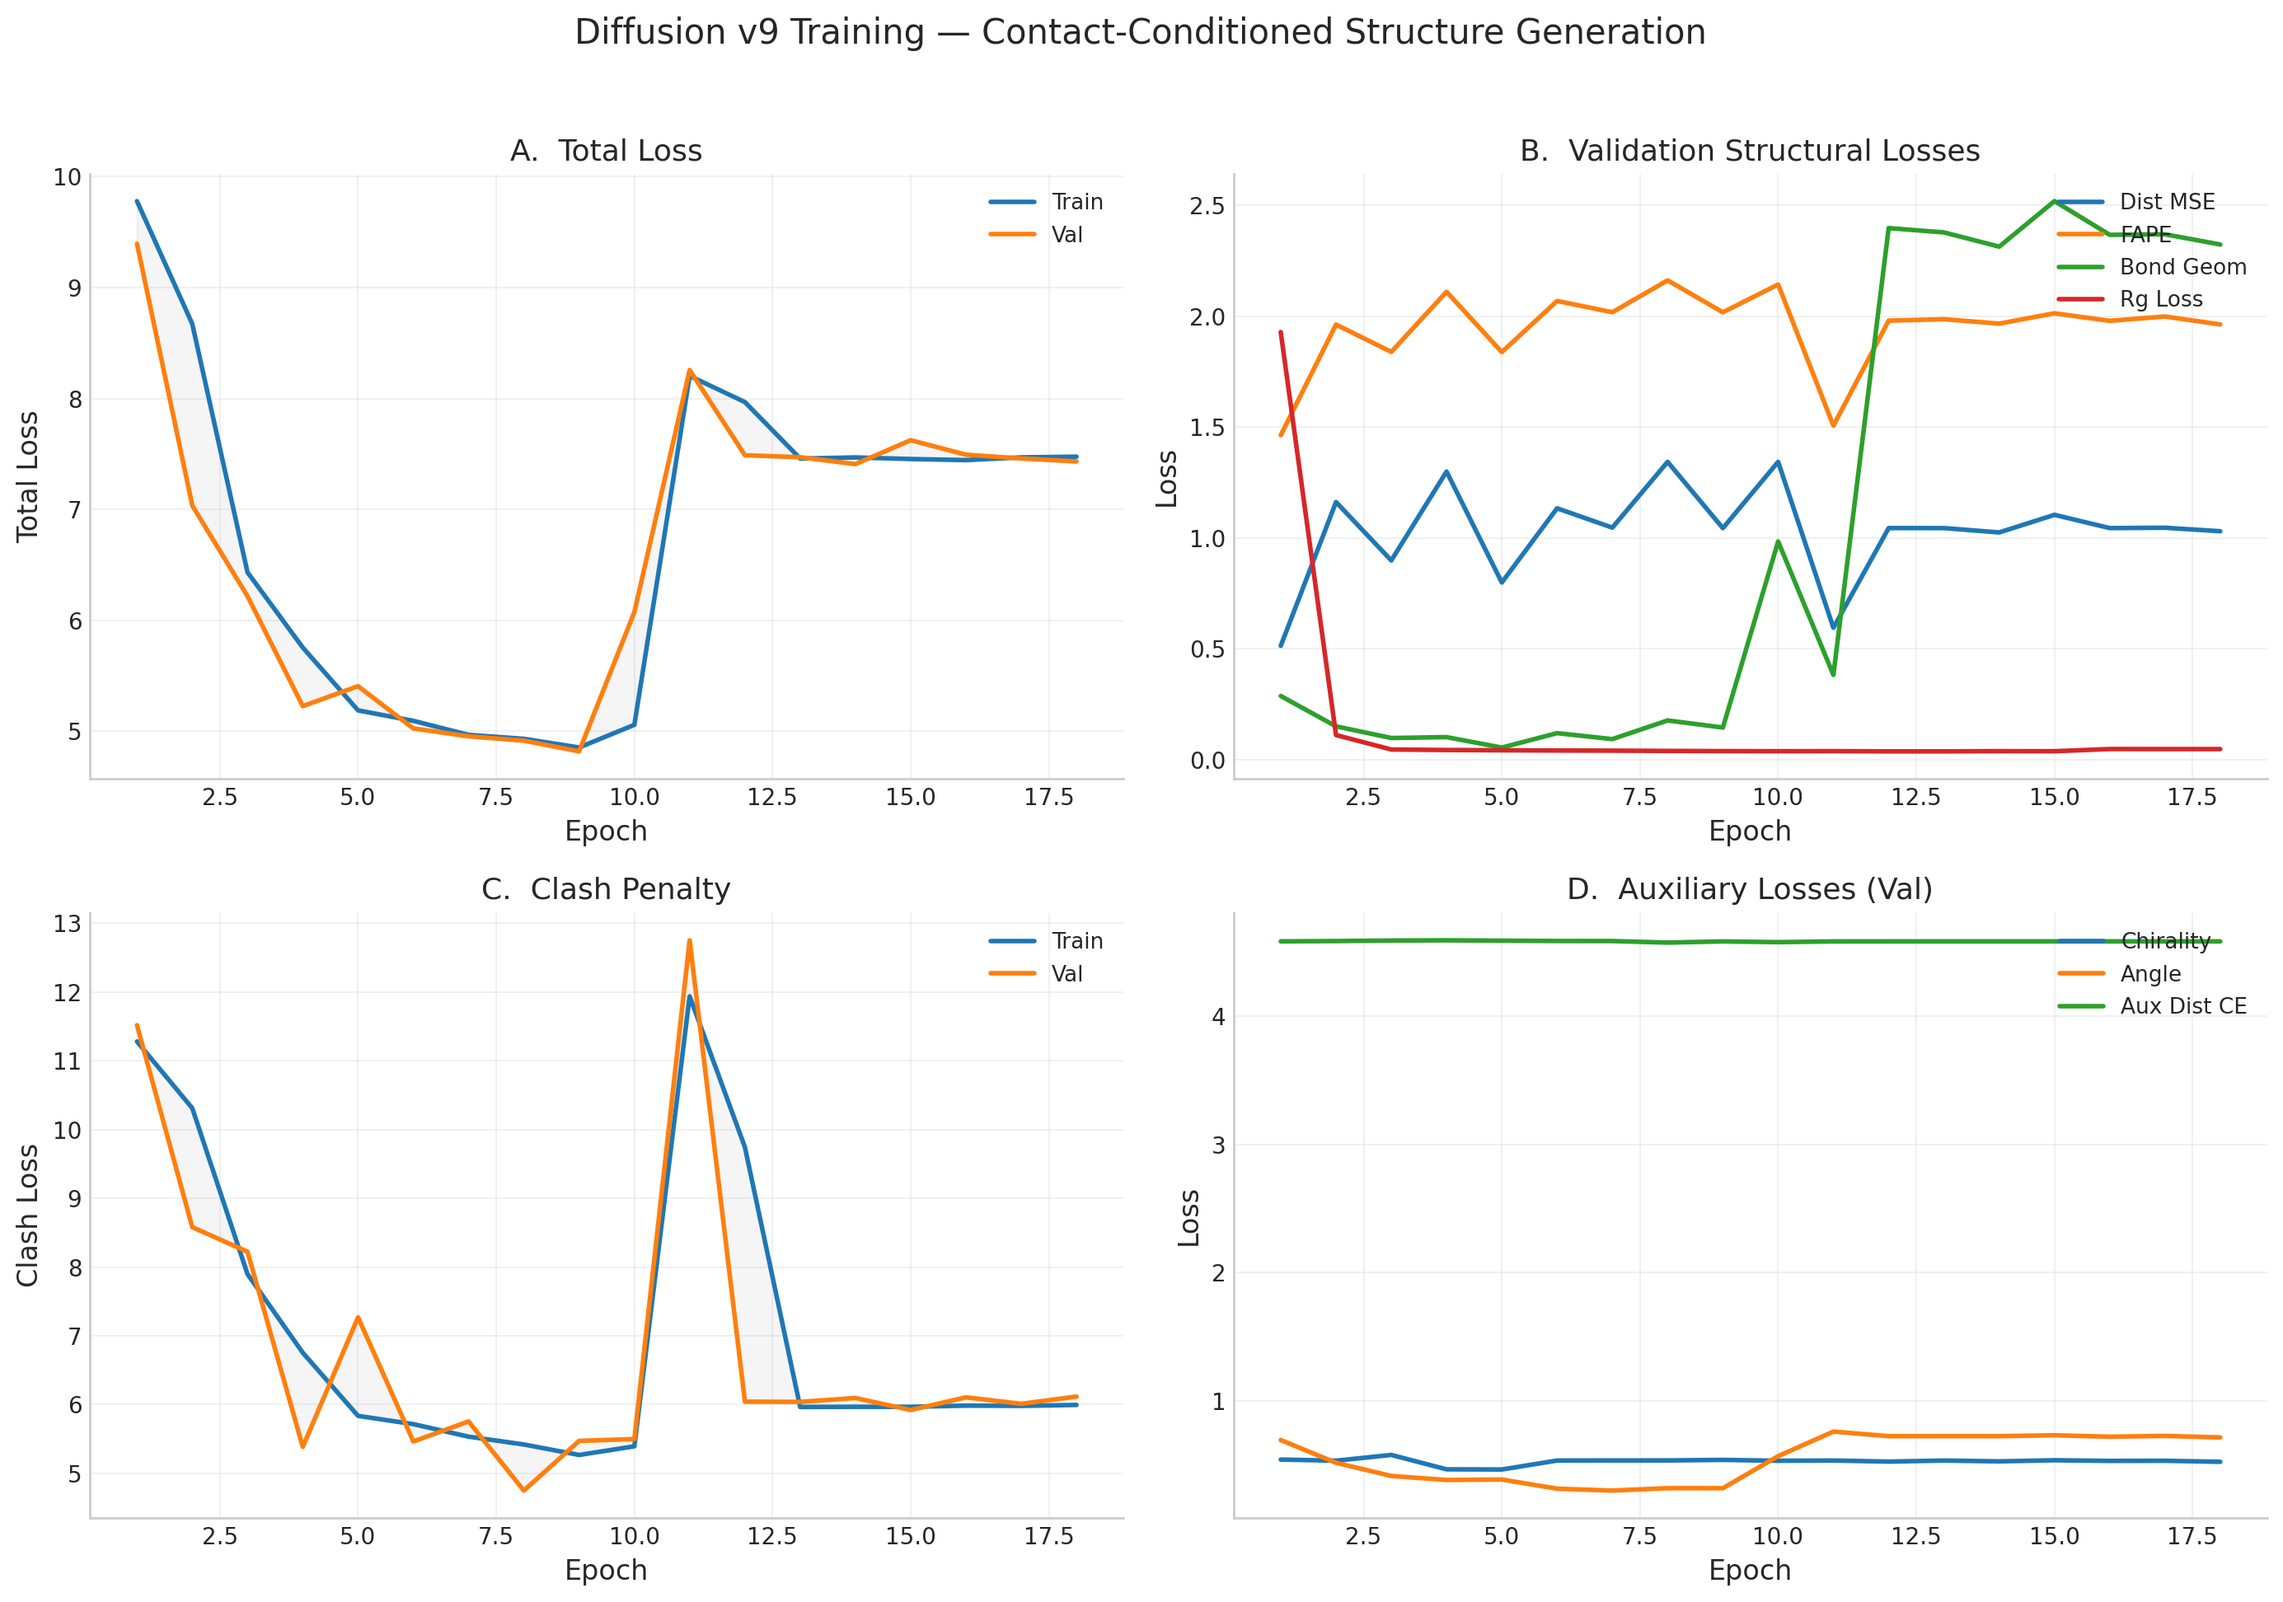
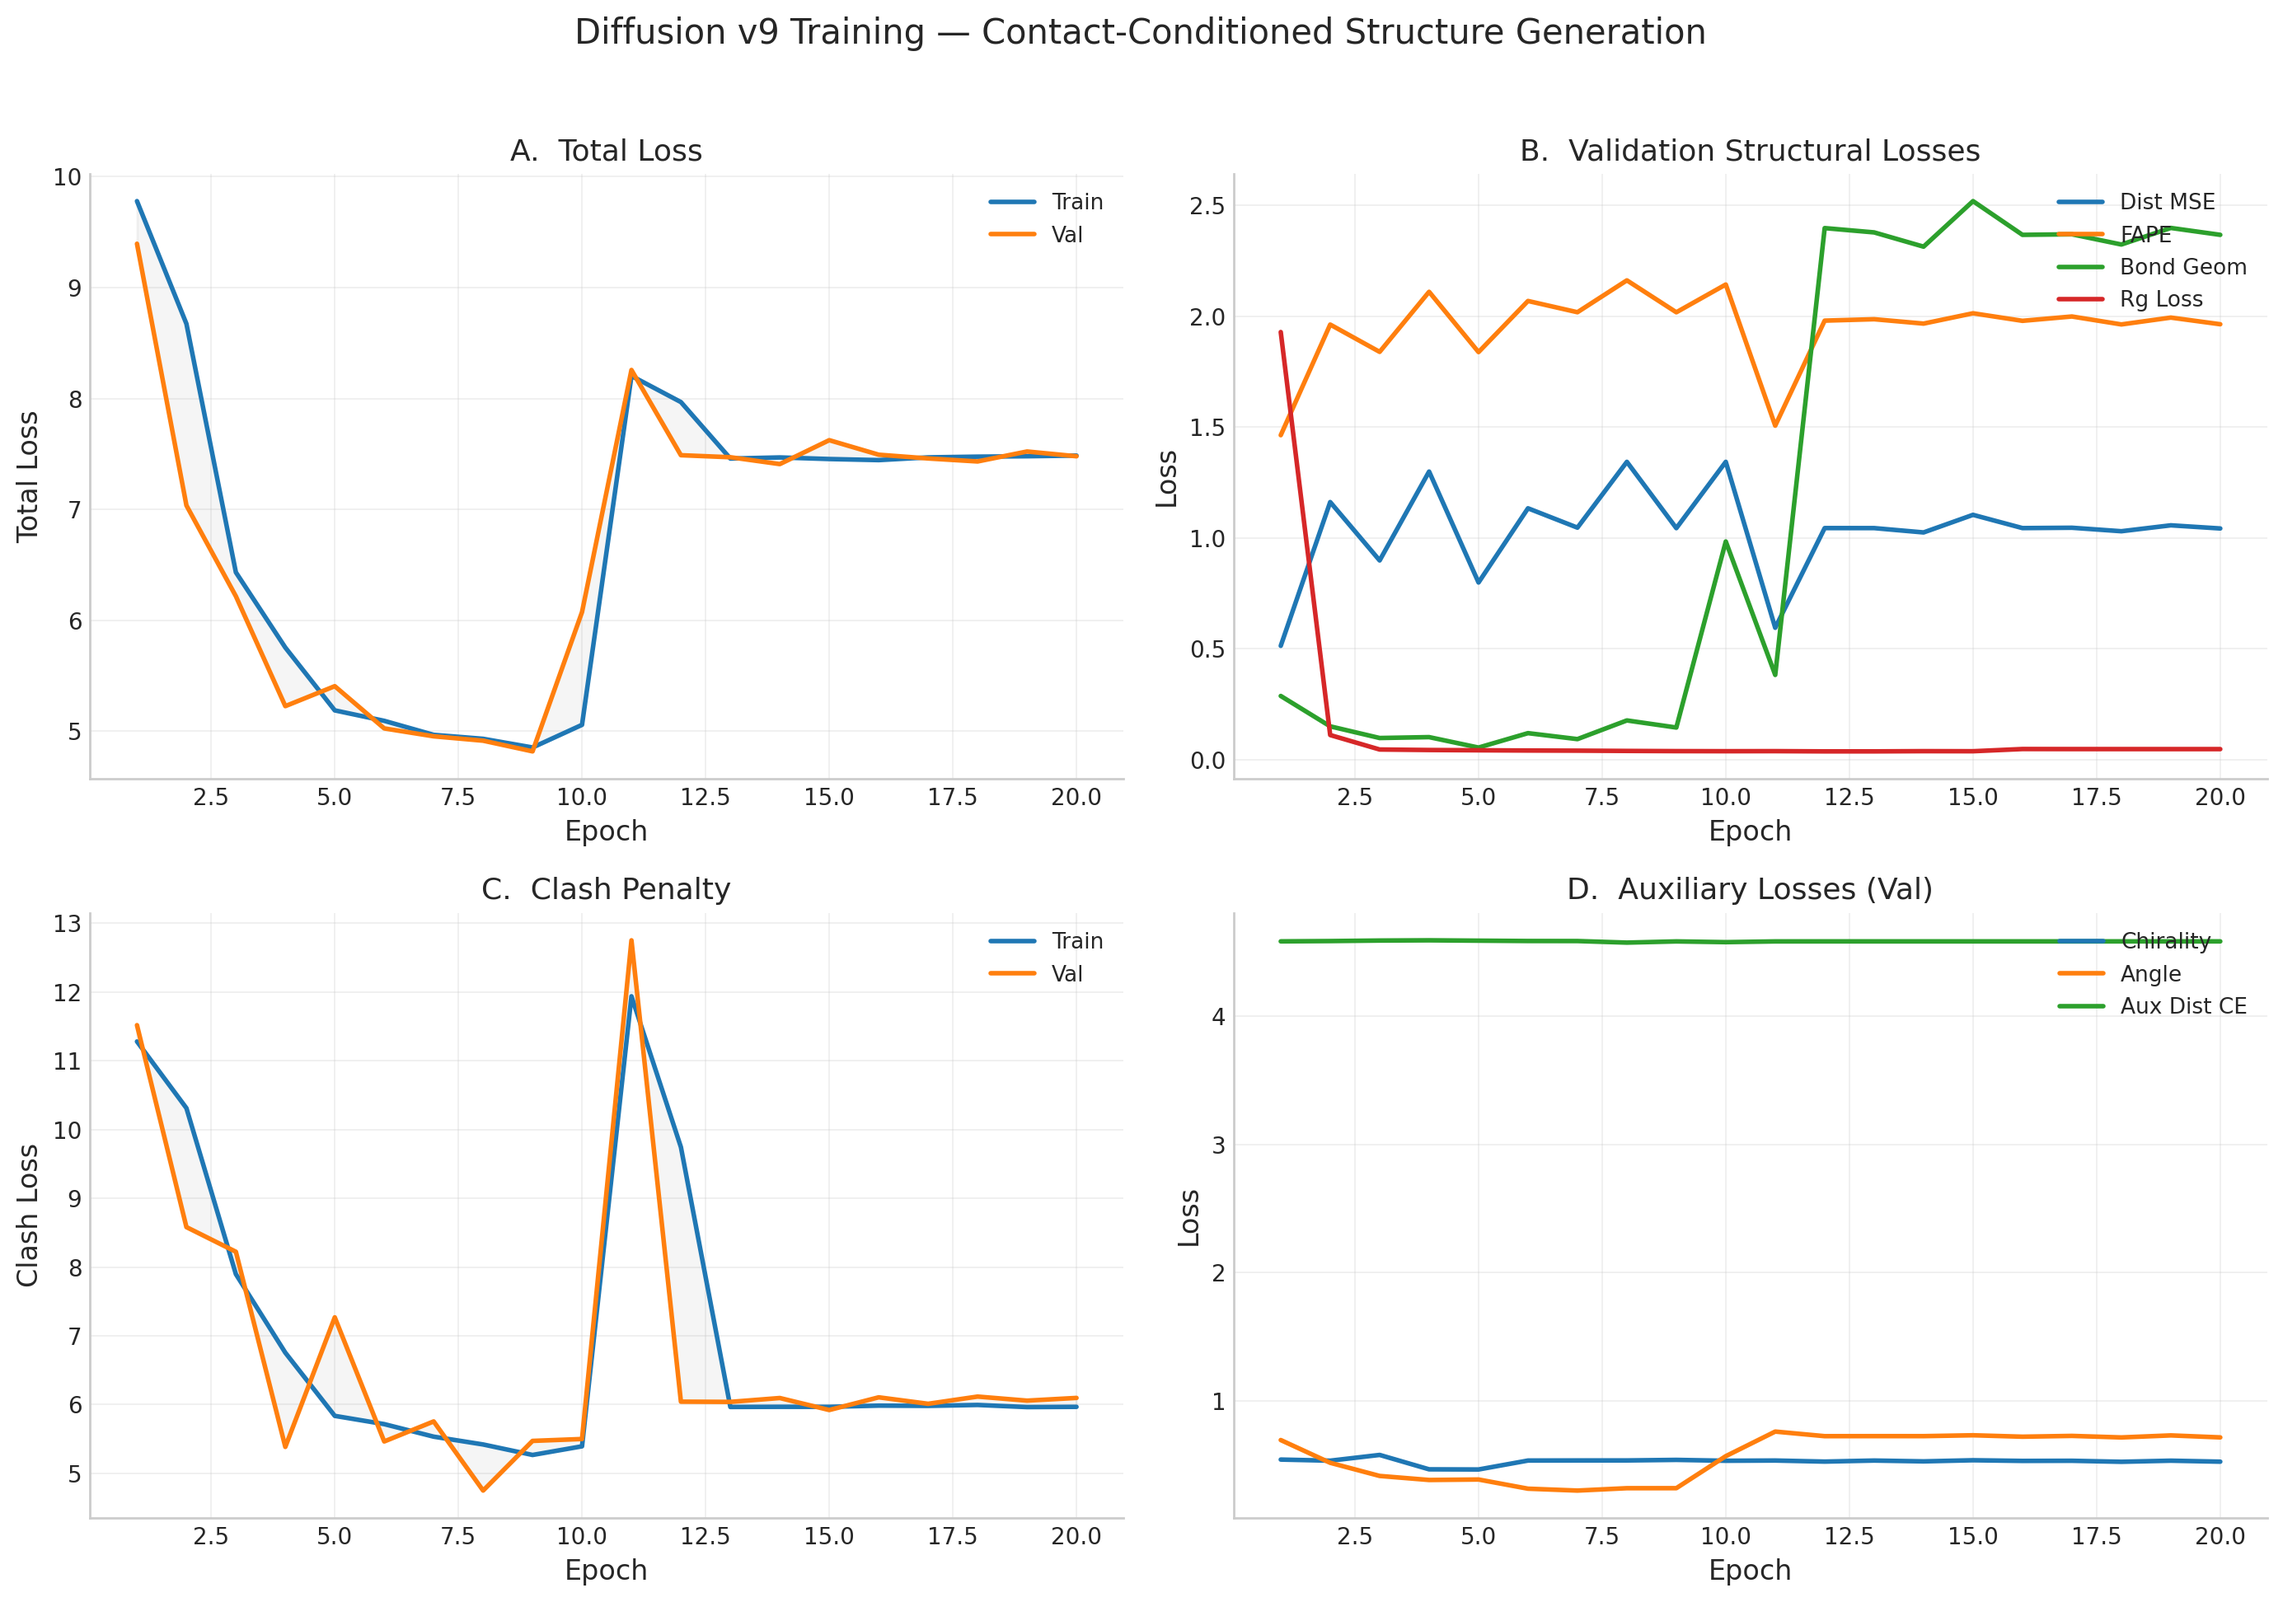
Update v9 training: E19-20, DDIM TM=0.012, early stop imminent

diff --git a/index.html b/index.html
@@ -1390,6 +1390,28 @@
                 <td>&mdash;</td>
                 <td><span class="tag tag-pat">pat 9</span></td>
               </tr>
+              <tr>
+                <td>19</td>
+                <td>7.523</td>
+                <td>1.056</td>
+                <td>1.993</td>
+                <td>0.047</td>
+                <td>2.397</td>
+                <td>&mdash;</td>
+                <td>&mdash;</td>
+                <td><span class="tag tag-pat">pat 10</span></td>
+              </tr>
+              <tr>
+                <td>20</td>
+                <td>7.480</td>
+                <td>1.042</td>
+                <td>1.963</td>
+                <td>0.047</td>
+                <td>2.366</td>
+                <td>57.37&Aring;</td>
+                <td>0.012</td>
+                <td><span class="tag tag-pat">pat 11</span></td>
+              </tr>
             </tbody>
           </table>
         </div>
@@ -1400,19 +1422,19 @@
         </div>
 
         <div class="training-observations">
-          <h4>Training Progress (Epochs 1&ndash;18)</h4>
+          <h4>Training Progress (Epochs 1&ndash;20)</h4>
           <ul>
             <li>Best val total loss: 4.82 at epoch 9 (49% reduction from E1). Training hit an instability at E10&ndash;11, where bond geometry and clash penalties spiked before beginning recovery at E12&ndash;13.</li>
             <li>DDIM at E10: RMSD = 54.6&Aring;, TM = 0.010 &mdash; generated structures still unfolded. The denoiser has not yet learned to produce coherent backbones during reverse diffusion. This is expected given the instability; DDIM quality should improve as training stabilizes.</li>
             <li>Instability pattern: clash loss dropped to 5.3 (E10) then spiked to 12.8 (E11, worse than E1). Bond geometry jumped from 0.14 to 2.4. Meanwhile, dist_mse and FAPE temporarily improved (E11: dist=0.59, FAPE=1.51), suggesting the model briefly over-optimized local distance metrics at the cost of geometric validity.</li>
-            <li>Recovery stalled: E12&ndash;18 show val loss plateauing at ~7.4 (vs best 4.82 at E9). Bond geom stuck at ~2.3. LR decayed to 1.4e-5 &mdash; effectively frozen. Patience 9/15, early stopping expected around E24. Best weights from E9 are preserved.</li>
+            <li>Recovery failed: E12&ndash;20 show val loss locked at ~7.5 (vs best 4.82 at E9). DDIM at E20: RMSD=57.4&Aring;, TM=0.012 &mdash; generated structures are still unfolded noise. LR at minimum (1e-6), patience 11/15. Early stopping in ~4 epochs. Best weights from E9 are preserved.</li>
             <li>Rg remains solved throughout (&lt; 0.04). The frozen contact classifier encoder provides stable conditioning.</li>
             <li>Running on NVIDIA A40 (47.6 GB) on savio3 &mdash; ~15 min/epoch with auto-resume.</li>
           </ul>
         </div>
 
         <div class="training-pending-note">
-          Training on single A40 GPU (savio3). Preemption-resilient with per-epoch checkpoints and auto-resume. Best model saved at epoch 9 (val=4.82). Recovering from instability. Next DDIM eval at epoch 15.
+          Training on single A40 GPU (savio3). Best model saved at epoch 9 (val=4.82). The model never recovered from the E10 instability &mdash; early stopping imminent. DDIM sampling produces unfolded structures (TM~0.01), indicating the denoiser has not learned coherent backbone generation at this scale.
         </div>
       </div>
 
